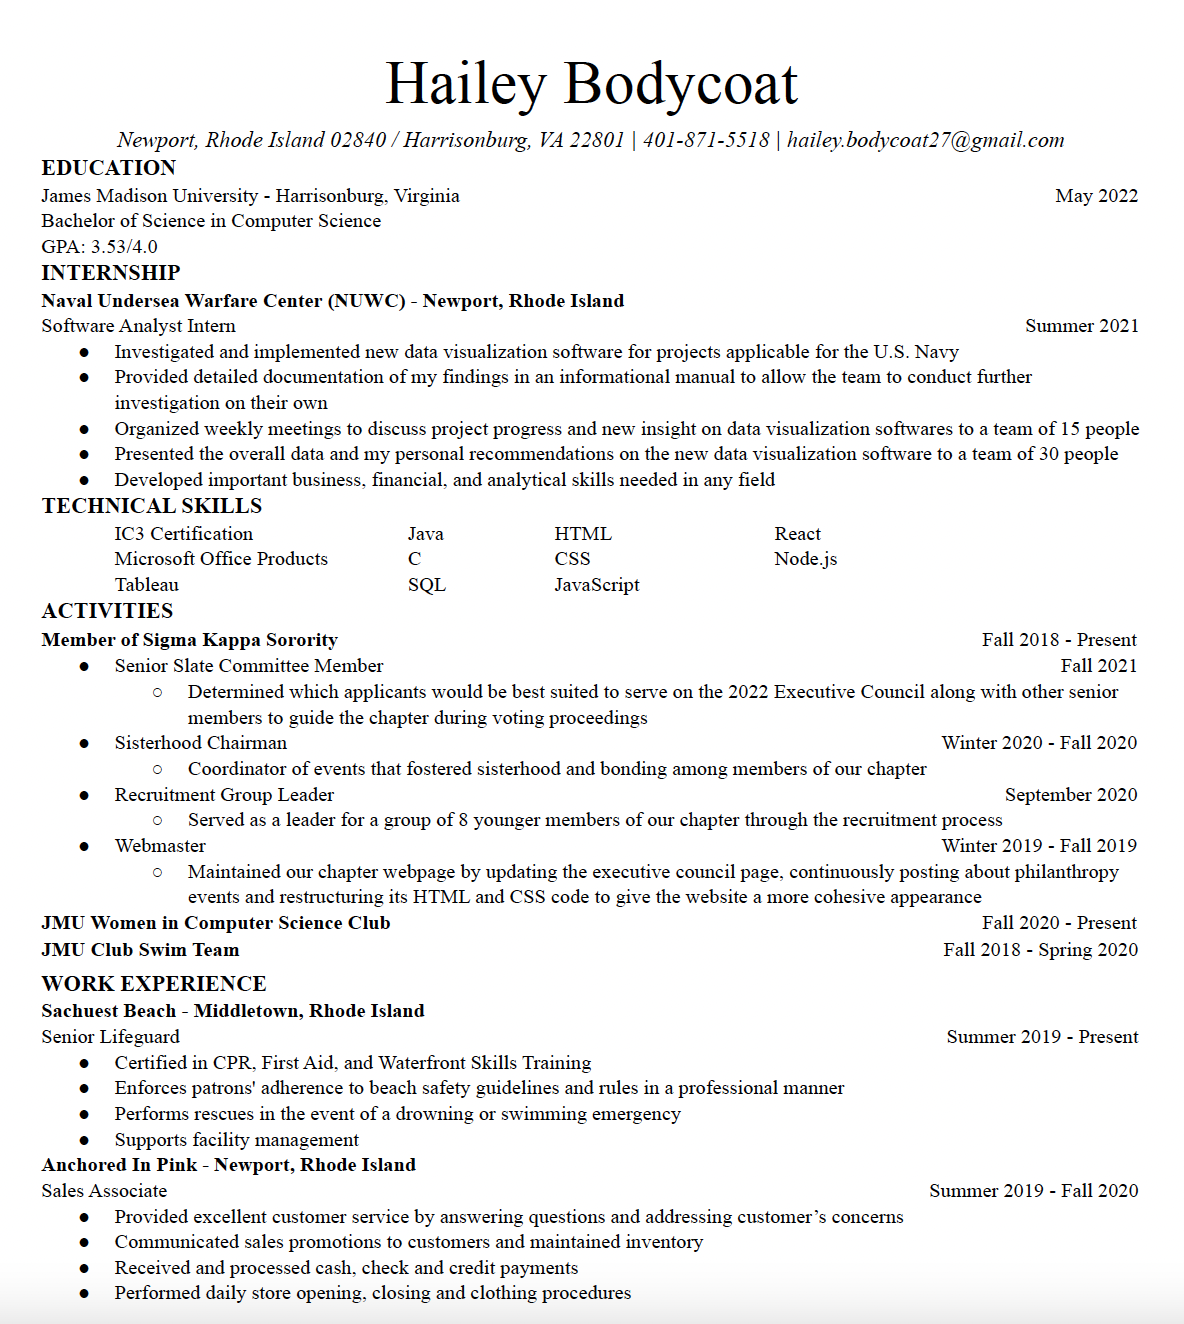
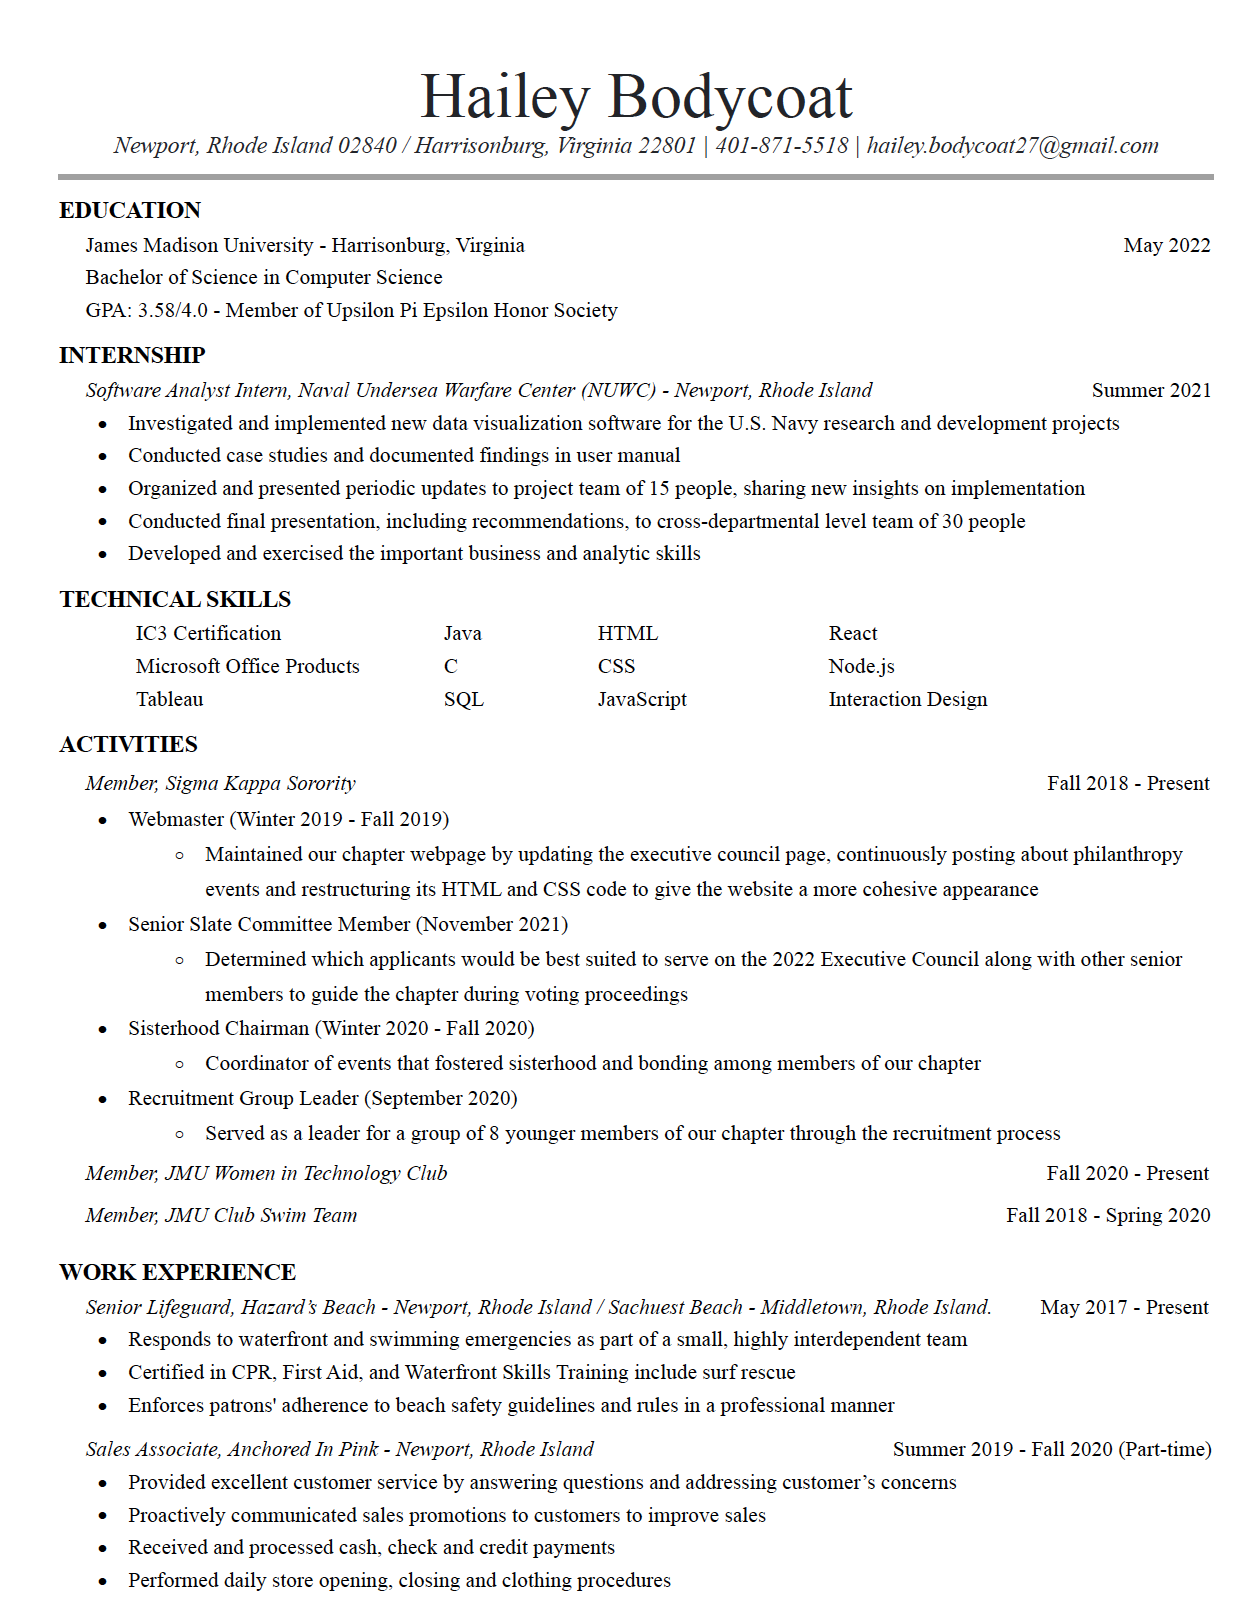
Updated resume and added react project

Changed region(s): [[0.0312, 0.031, 0.9688, 0.9909]]

diff --git a/about.html b/about.html
@@ -25,7 +25,7 @@
                         <br>
                         <div class = "heading">Education</div>
                             <p class = "text">
-                                I have attended James Madison University since 2018 and am now approaching graduation this May 2022. I am majoring in Computer Science and am passionate about webite design and front-end webpage development.
+                                I have attended James Madison University since 2018 and am now approaching graduation this May 2022. I am majoring in Computer Science and am passionate about webite design and front-end webpage development. I have recently been initiated into Upsilon Pi Epsilon - Zeta Chapter of Virginia, a national Computer Science honors society.
                             </p>
                     </div>
 
@@ -34,7 +34,7 @@
                         <br>
                         <div class = "heading">Future</div>
                             <p class = "text">
-                                Post graduation, I hope to begin a job in UX Design and Product Development - allowing me to interwind my passion for aesthetic, choesive design with my knowledge of HTML and CSS. I am excited to start working at an innovate company and am looking for jobs in the Boston area, but am willing to relocate. 
+                                Post graduation, I hope to begin a job as a front-end website developer - allowing me to interwind my passion for aesthetic, choesive design with my knowledge of HTML, CSS, and JavaScript. I am excited to start working at an innovate company and am looking for jobs in the Boston area, but am willing to relocate. 
                             </p>
                     </div>
 

diff --git a/work.html b/work.html
@@ -48,6 +48,15 @@
                 </div>
             </a>
             </div>
+
+            <div class = "img1-wrap">
+                <a href = "https://github.com/JMU-CS-WebDev/project-3---react-frontend-hailey-and-matt-m-1/tree/main/waitlist">
+                <img class = "image" src = "images/hailey4.png" alt = "React Project - Waitlist Application">
+                <div class = "overlay">
+                    <div class = "text">React Project - Dynamic Restaurant Waitlist</div>
+                </div>
+            </a>
+            </div>
         </div>
     </body>
 </html>

diff --git a/resume.html b/resume.html
@@ -18,6 +18,6 @@
             <h1 class = "title">Resume</h1>
         </div>
 
-        <center><img id = "resume" src = "images/Resume.png" alt = "Resume" width = "900" height = "1000">
+        <center><img id = "resume" src = "images/Resume.png" alt = "Resume" width = "800" height = "1000">
         </body></center>
 </html>
